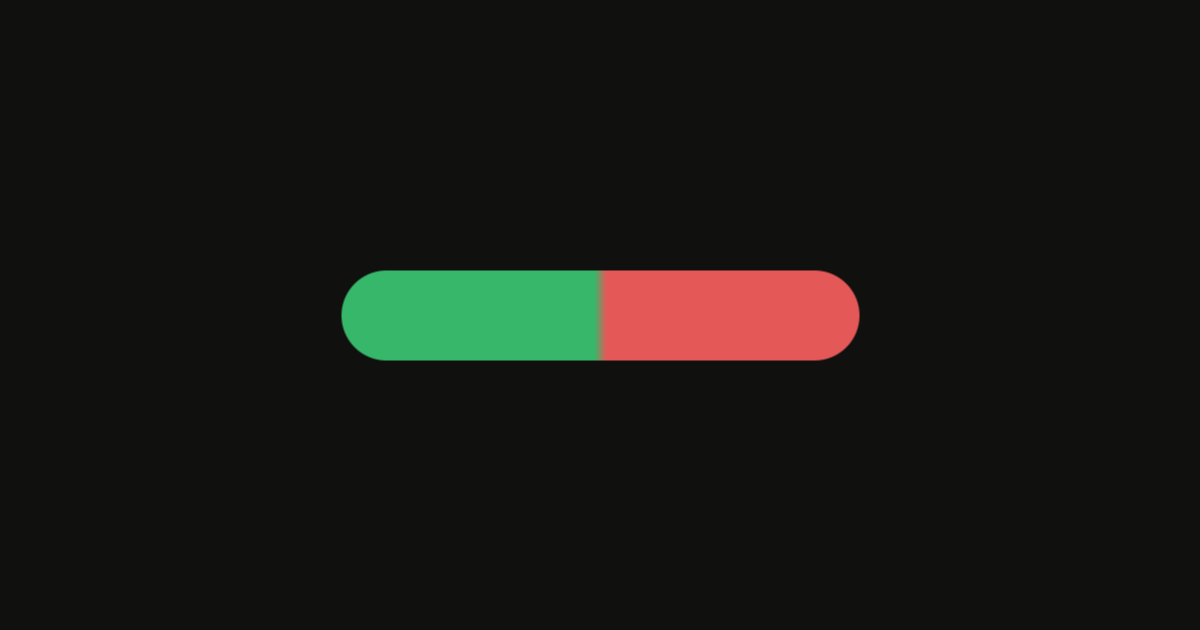
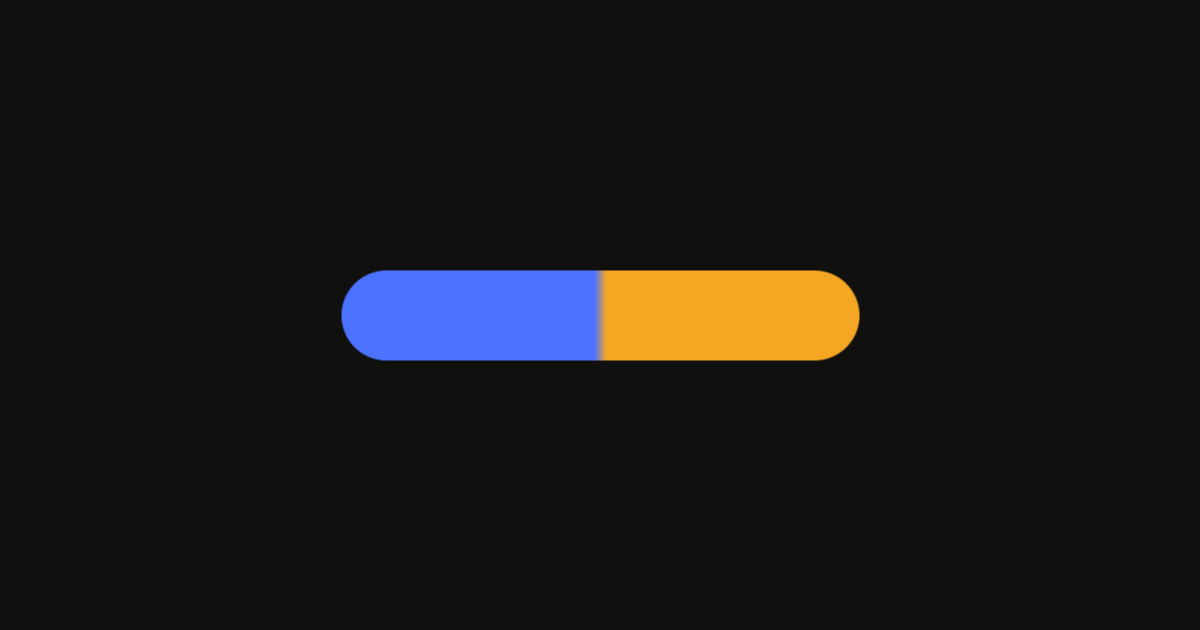
Changes

Changed region(s): [[0.2775, 0.4222, 0.74, 0.573]]

diff --git a/scripts/gen-og-fallback.ts b/scripts/gen-og-fallback.ts
@@ -21,14 +21,14 @@ const H = 630;
 
 // Brand palette (mirrors src/styles.css).
 const BG = [0x10, 0x10, 0x0f];
-const YES = [0x36, 0xb7, 0x6a];
-const NO = [0xe4, 0x58, 0x58];
+const YES = [0x4c, 0x73, 0xff]; // Conviction Blue
+const NO = [0xf5, 0xa6, 0x23]; // Conviction Amber
 
 function mix(a: number[], b: number[], t: number): number[] {
   return [0, 1, 2].map((i) => Math.round(a[i] + (b[i] - a[i]) * t));
 }
 
-/** One centered pill, split green (left) / red (red) — "pick a side". */
+/** One centered pill, split blue (YES) / amber (NO) — "pick a side". */
 function pixel(x: number, y: number): number[] {
   const cx = W / 2;
   const cy = H / 2;
